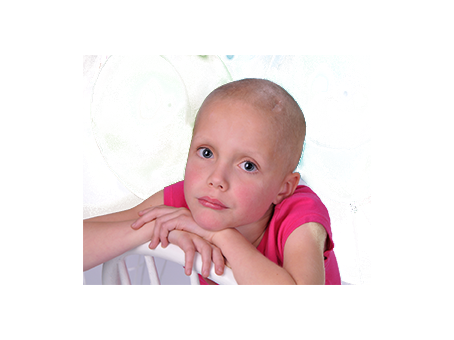
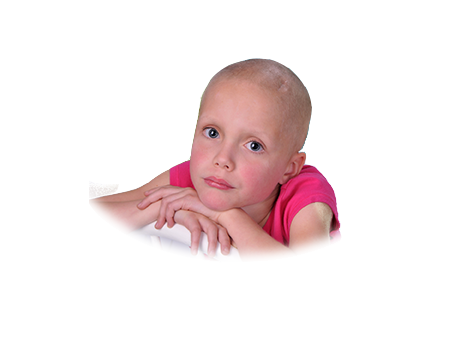
add images to how you can help

Changed region(s): [[0.185, 0.1471, 0.7709, 0.8529], [0.4317, 0.1471, 0.4626, 0.1765]]

diff --git a/306Project_Demo2_Final_For_MARKING/306Project1/SurfaceWindow1.xaml b/306Project_Demo2_Final_For_MARKING/306Project1/SurfaceWindow1.xaml
@@ -709,22 +709,24 @@
 
                         <Grid.RowDefinitions>
                             <RowDefinition Height="200"/>
-                            <RowDefinition Height="600"/>
+                            <RowDefinition Height="760"/>
                             <RowDefinition Height="auto"/>
                         </Grid.RowDefinitions>
 
                         <!--Hiang add swipe to home icon at the bottom of the page-->
                         <Grid Grid.Row="2" VerticalAlignment="Bottom" HorizontalAlignment="Center">
                             <!--This is the swipe icon-->
-                            <TextBlock Padding="400,150,0,10"  >
+                            <TextBlock Padding="400,0,0,0"  >
                                    <Image Width="200" Height="100" Source="./Resources/swipe left.png"/>
      
                             <!--This is the swipe text-->
                             </TextBlock>
-                            <TextBlock Padding="400,250,0,10" Foreground="DarkBlue" FontSize="20">
+                            <TextBlock Padding="400,90,0,10" Foreground="DarkBlue" FontSize="20">
                                      Swipe Left To Go Back Home
                             </TextBlock>
                         </Grid>
+                        <!--End of swipe code-->
+                        
                         <Grid Grid.Row="1">
                             <Grid.ColumnDefinitions>
                                 <ColumnDefinition Width="380"/>
@@ -732,19 +734,19 @@
                                 <ColumnDefinition Width="1151"/>
                             </Grid.ColumnDefinitions>
                             
-                            <Grid Grid.Column="3" Visibility="Visible" HorizontalAlignment="Right" VerticalAlignment="Center">
-                                <TextBlock Padding="500,0,0,0">
-                                <Image Name="donatePic" Visibility="Collapsed" Height="900" Width="800" Source="./Resources/306p2_elements/306p2_elements_how_you_can_help/donateChild.png"/>
+                            <Grid Grid.Column="3" Grid.RowSpan="3" Visibility="Visible" HorizontalAlignment="Right" VerticalAlignment="Top">
+                                <TextBlock Padding="500,50,0,0">
+                                <Image Name="donatePic" Visibility="Visible" MaxHeight="500" Width="800" Source="./Resources/306p2_elements/306p2_elements_how_you_can_help/donateChild.png"/>
                                 </TextBlock>
                                 
                                 <TextBlock Padding="600,50,0,250">
-                                <Image Name="sponsorPic" Visibility="Collapsed" Height="600" Width="800" Source="./Resources/306p2_elements/306p2_elements_how_you_can_help/sponsorPic.png"/>
+                                <Image Name="sponsorPic" Visibility="Collapsed" Height="500" Width="800" Source="./Resources/306p2_elements/306p2_elements_how_you_can_help/sponsorPic.png"/>
                                 </TextBlock>
                                     <TextBlock Padding="500,50,0,250">
                                 <Image Name="volunteerPic" Visibility="Collapsed" Width="500" Height="700" Source="./Resources/306p2_elements/306p2_elements_how_you_can_help/donateVolunteer.png"/>
                                 </TextBlock>
-                                <TextBlock Padding="500,50,0,250">
-                                <Image Name="fundraisePic" Visibility="Visible" Width="500" Height="700" Source="./Resources/306p2_elements/306p2_elements_how_you_can_help/fundraisePic.png"/>
+                                <TextBlock Padding="600,100,0,0">
+                                <Image Name="fundraisePic" Visibility="Collapsed" Width="500" Height="700" Source="./Resources/306p2_elements/306p2_elements_how_you_can_help/fundraisePic.png"/>
                                 </TextBlock>
                             </Grid>
                              
@@ -904,19 +906,10 @@
                     -   Sporting event - golfing, bowls etc <LineBreak></LineBreak>
                     -   Art Auction <LineBreak></LineBreak></TextBlock>
 
-                                
-
-                                
+                            
                             </Grid>
 
-
-
-
                         </Grid>
-
-                        
-
-                        
 
                     </Grid>
 

diff --git a/306Project_Demo2_Final_For_MARKING/306Project1/SurfaceWindow1.xaml.cs b/306Project_Demo2_Final_For_MARKING/306Project1/SurfaceWindow1.xaml.cs
@@ -69,9 +69,9 @@ namespace _306Project1
             {
                 var Touch = e.GetTouchPoint(this);    //Get the current touch point 
                 
-                //The swipe threhold is 500 pixels
+                //The swipe threhold is 150 pixels
                 //Swipe Left
-                if (TouchStart != null && Touch.Position.X < (TouchStart.Position.X - 500)) 
+                if (TouchStart != null && Touch.Position.X < (TouchStart.Position.X - 150)) 
                 {
                     showHomePage();   //Navigate to home screen 
                 }
@@ -1038,6 +1038,7 @@ namespace _306Project1
                     donateELabel.Visibility = System.Windows.Visibility.Collapsed;
                     //submilEButton.Visibility = System.Windows.Visibility.Collapsed;
                     donateMsg.Visibility = System.Windows.Visibility.Collapsed;
+                    donatePic.Visibility = System.Windows.Visibility.Collapsed; 
                     break;
 
                 case "volunteer":
@@ -1045,14 +1046,17 @@ namespace _306Project1
                     volunteerMsg.Visibility = System.Windows.Visibility.Collapsed;
                     // submilEButton.Visibility = System.Windows.Visibility.Collapsed;
                     VolunteerSignLabel.Visibility = System.Windows.Visibility.Collapsed;
+                    volunteerPic.Visibility = System.Windows.Visibility.Collapsed; 
                     break;
 
                 case "fundraise":
                     fundraiseText.Visibility = System.Windows.Visibility.Collapsed;
+                    fundraisePic.Visibility = System.Windows.Visibility.Collapsed; 
                     break;
 
                 case "sponsor":
                     sponsorText.Visibility = System.Windows.Visibility.Collapsed;
+                    sponsorPic.Visibility = System.Windows.Visibility.Collapsed;
                     break;
 
             }
@@ -1326,6 +1330,7 @@ namespace _306Project1
             qrCodeImg.Visibility = System.Windows.Visibility.Visible;
             donateELabel.Visibility = System.Windows.Visibility.Visible;
             donateMsg.Visibility = System.Windows.Visibility.Visible;
+            donatePic.Visibility = System.Windows.Visibility.Visible; 
             
             //Now the current page is a "donate" page 
             currentPage = "donate";
@@ -1349,6 +1354,7 @@ namespace _306Project1
             volunteerText.Visibility = System.Windows.Visibility.Visible;
             volunteerMsg.Visibility = System.Windows.Visibility.Visible;
             VolunteerSignLabel.Visibility = System.Windows.Visibility.Visible;
+            volunteerPic.Visibility = System.Windows.Visibility.Visible; 
 
         }
 
@@ -1363,6 +1369,7 @@ namespace _306Project1
             disableCurrentContent(currentPage);
             currentPage = "fundraise";
             fundraiseText.Visibility = System.Windows.Visibility.Visible;
+            fundraisePic.Visibility = System.Windows.Visibility.Visible; 
         }
 
         //It is invoked when the user presses on Sponsors on How You Can Help page 
@@ -1376,6 +1383,7 @@ namespace _306Project1
             disableCurrentContent(currentPage);
             currentPage = "sponsor";
             sponsorText.Visibility = System.Windows.Visibility.Visible;
+            sponsorPic.Visibility = System.Windows.Visibility.Visible; 
         }
         //**Hiang End of code block for How You Can Help page visibiliy settings
 
